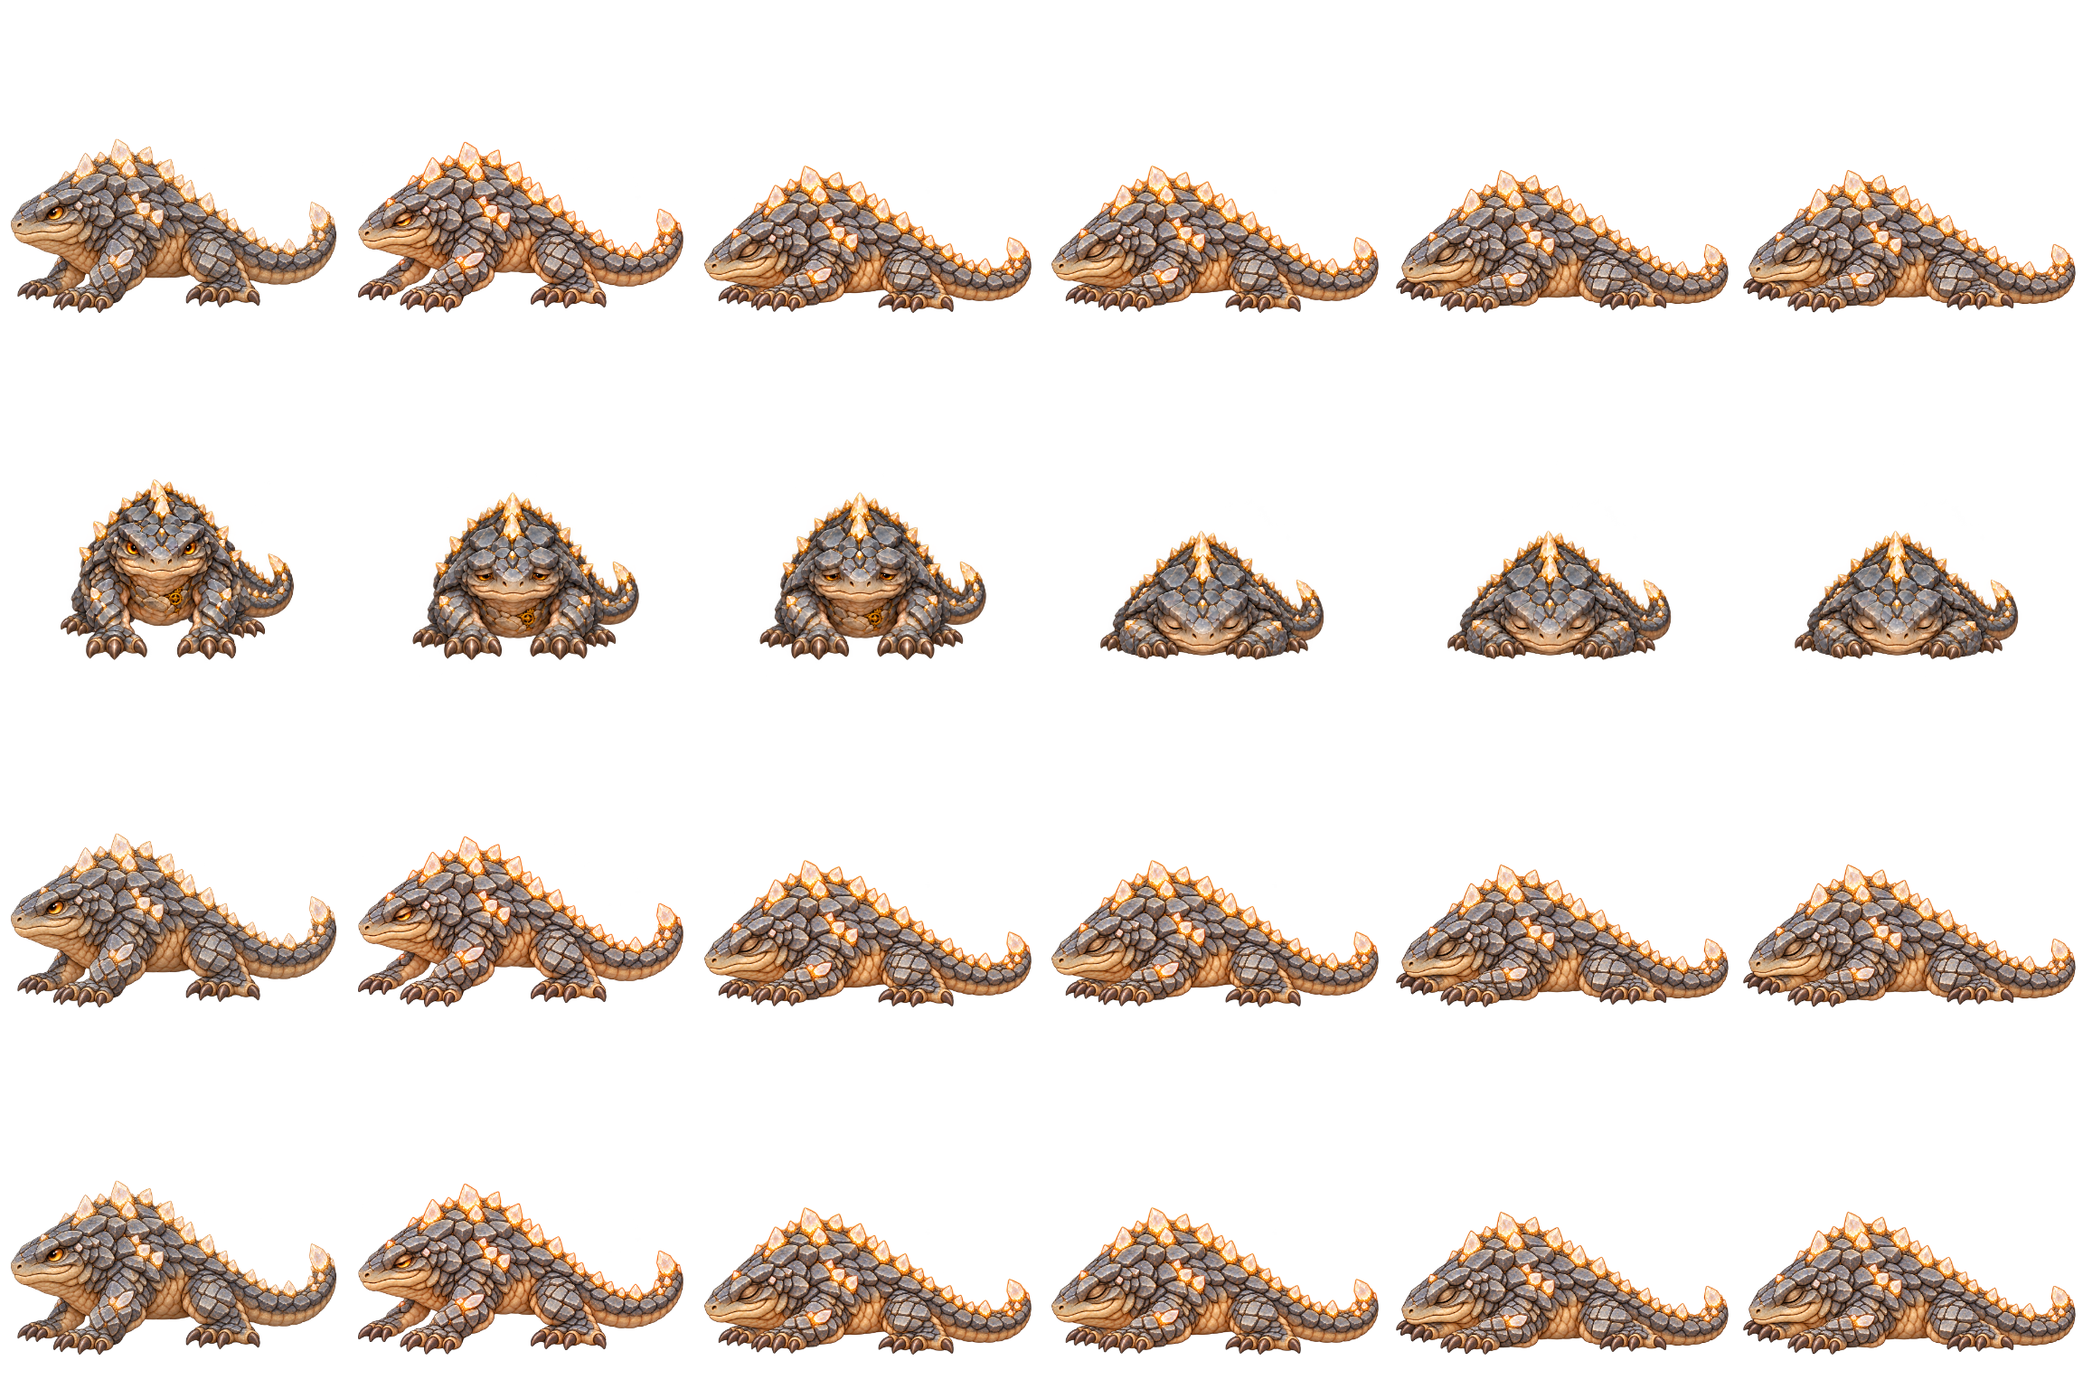
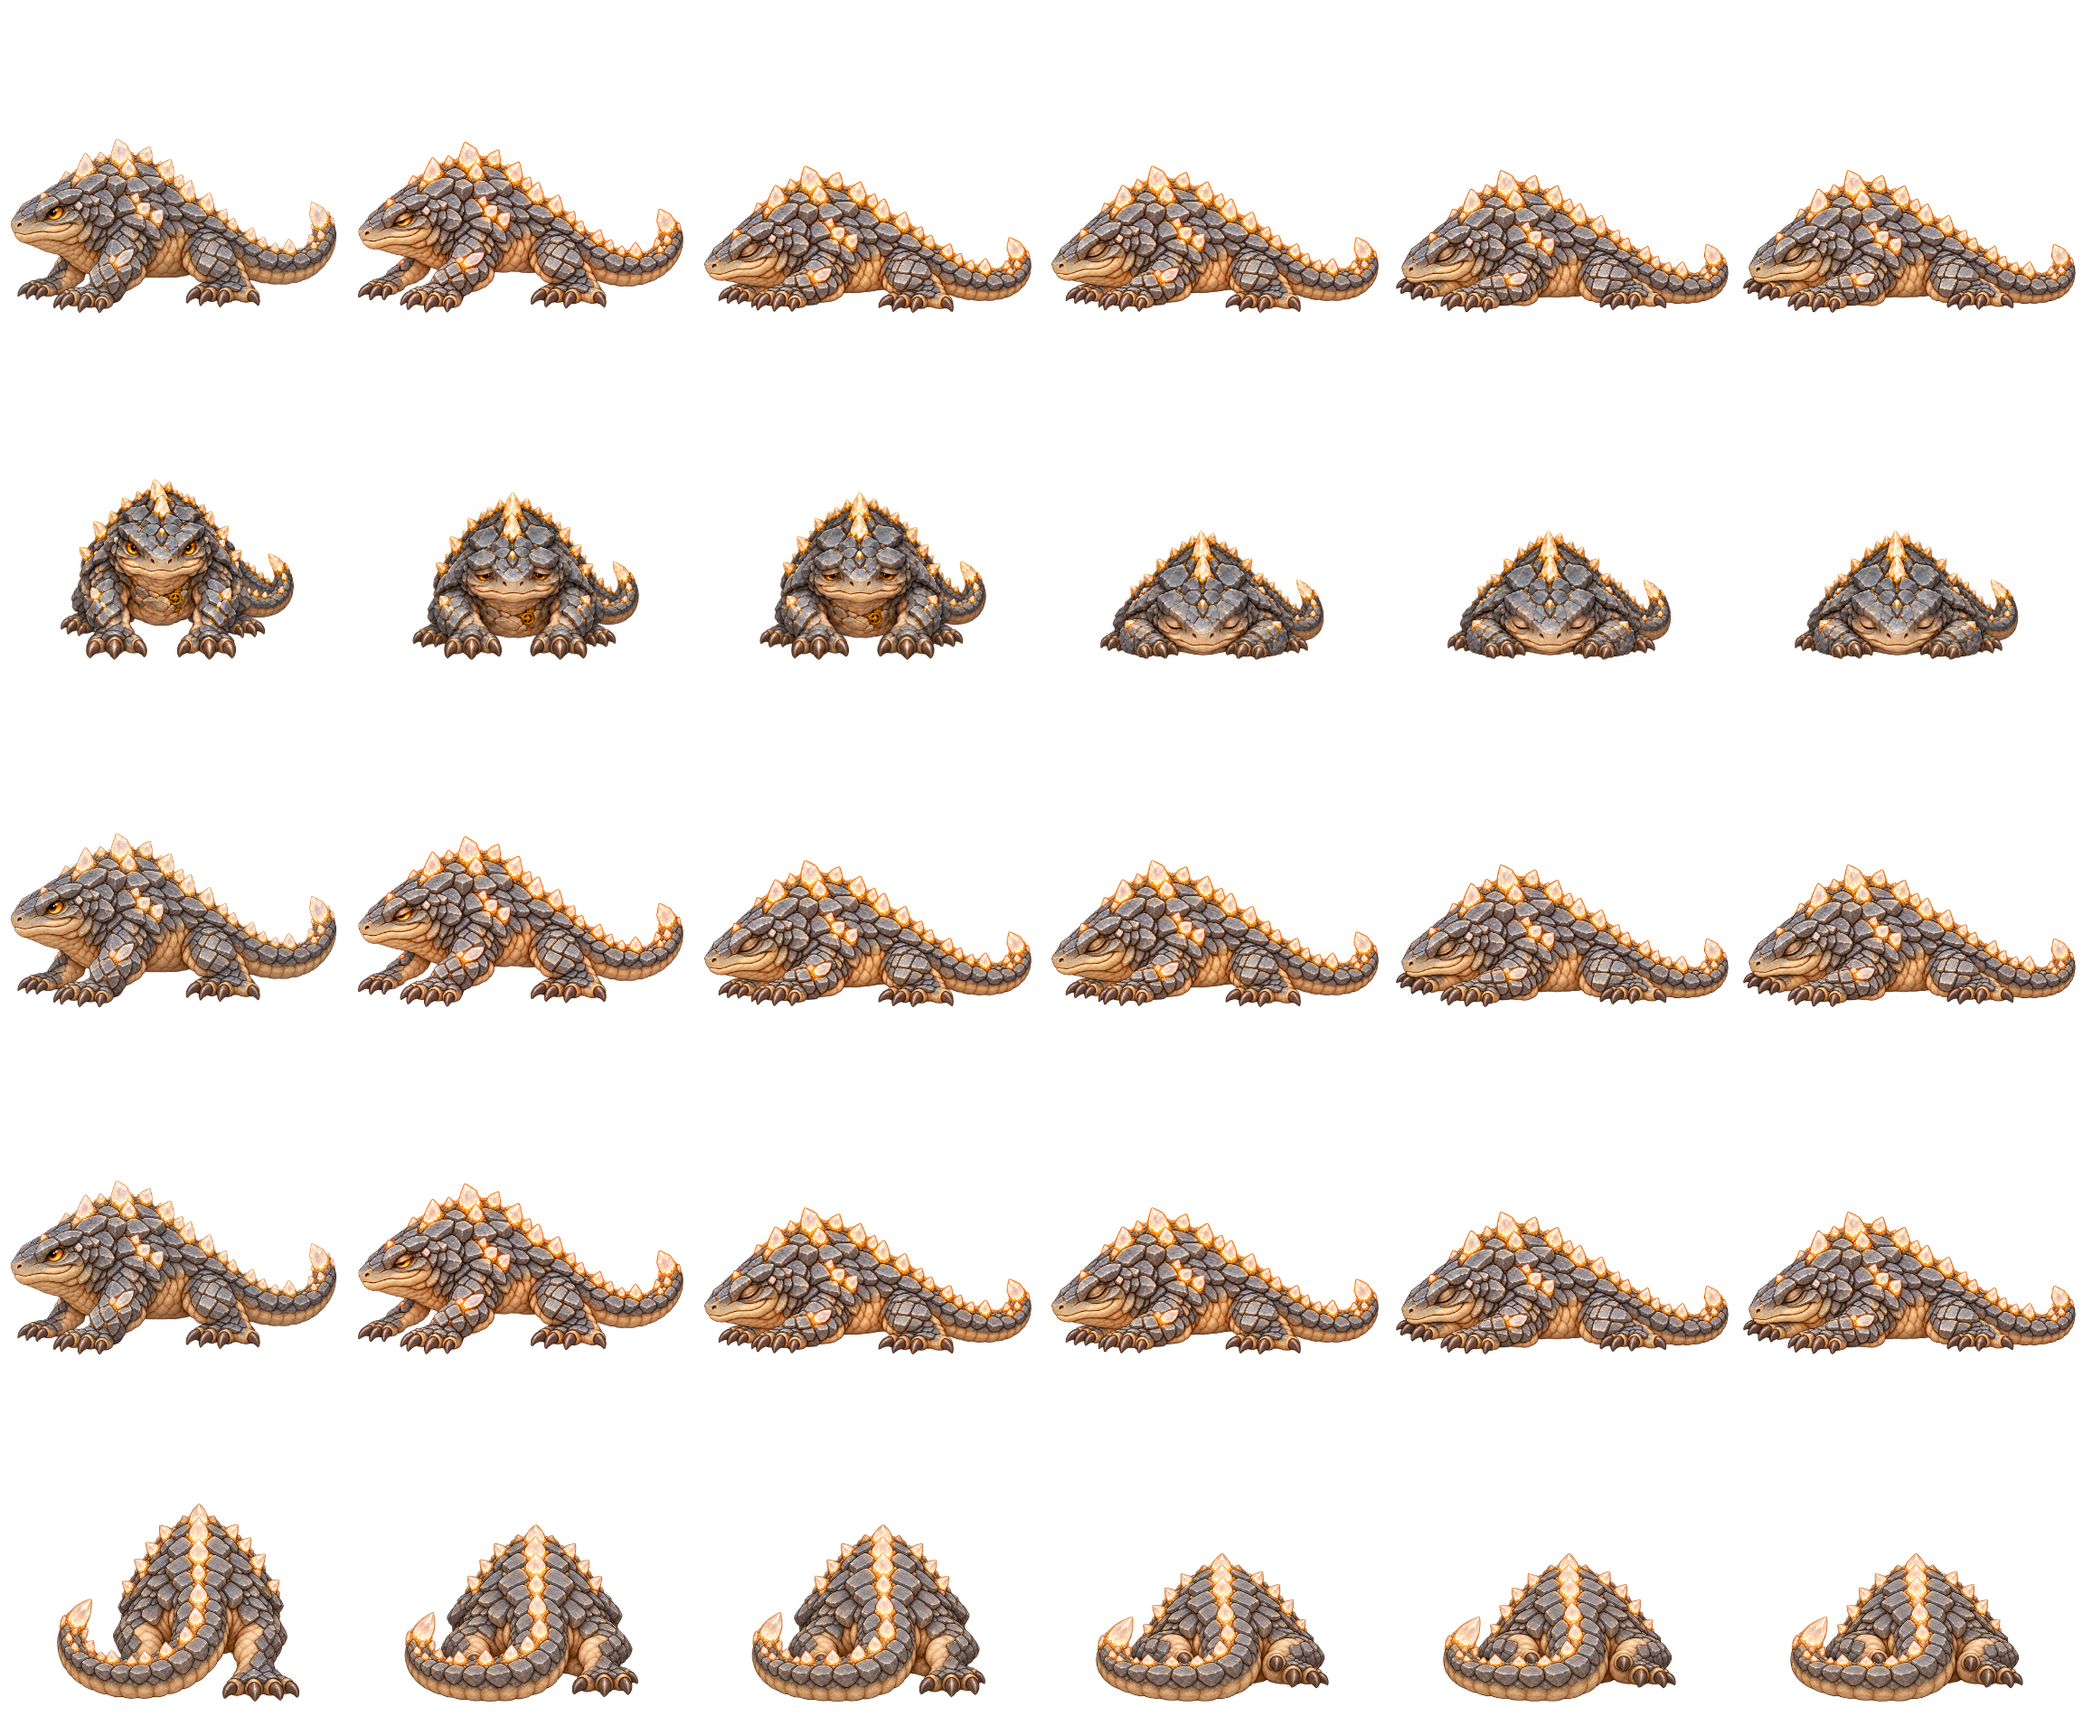
art: add rear Craglet action poses and runtime direction row

diff --git a/art-source/monsters/mob_0005/walk-review.html b/art-source/monsters/mob_0005/walk-review.html
@@ -17,6 +17,8 @@ button,input{margin:12px;padding:8px}p{max-width:900px}
 const image=new Image();image.src='./walk-left.png';await image.decode();
 const frontWalk=new Image();frontWalk.src='./walk-front.png';await frontWalk.decode();
 const backWalk=new Image();backWalk.src='./walk-back-v3.png';await backWalk.decode();
+const backActions=new Image();backActions.src='./actions-back.png';await backActions.decode();
+for(const name of ['attack-back','hit-back','death-back'])document.querySelector('#clip').add(new Option(name,name));
 const frontActions=new Image();frontActions.src='./actions-front-v2.png';await frontActions.decode();
 const frontActionBottom=[471,468,477,430,424,420];
 const walkImages=await Promise.all([1,2,3,4,5,6].map(async n=>{const img=new Image();img.src=`./walk-0${n}${n>=3&&n<=5?'-color':''}.png`;await img.decode();return img;}));
@@ -36,10 +38,20 @@ sequences['walk-back']=[0,1,2,3,4,5];
 sequences['attack-front']=[0,1,1,2,2,0];
 sequences['hit-front']=[0,3,3,0,0,0];
 sequences['death-front']=[0,4,4,5,5,5];
+sequences['attack-back']=[0,1,1,2,2,0];
+sequences['hit-back']=[0,3,3,0,0,0];
+sequences['death-back']=[0,4,4,5,5,5];
 const motion=document.querySelector('#motion'),g=motion.getContext('2d');
 const contact=document.querySelector('#contact'),cg=contact.getContext('2d');
 let paused=false,frame=0,last=0,light=true,clip='walk';
 function draw(ctx,i,cx,baseline,scale){
+ if(clip.endsWith('-back')&&clip!=='walk-back'){
+  const cuts=i<3?[0,528,1013,1536]:[0,519,1022,1536];
+  const col=i%3,x=cuts[col],w=cuts[col+1]-x,s=scale*.7;
+  const bottom=[487,487,490,449,450,474][i];
+  ctx.drawImage(backActions,x,Math.floor(i/3)*512,w,512,cx-256*s+(x-col*512)*s,baseline-bottom*s,w*s,512*s);
+  return;
+ }
  if(clip.endsWith('-front')&&clip!=='walk-front'){
   const s=scale*.7,size=512*s;
   ctx.drawImage(frontActions,(i%3)*512,Math.floor(i/3)*512,512,512,cx-size/2,baseline-frontActionBottom[i]*s,size,size);
@@ -109,8 +121,8 @@ function tick(now){
 function exportDraft(){
  const previous=clip,images={},sizes={};
  const json={id:'craglet_2d',kind:'sheet',facingMode:'directional',
-  frame:{w:384,h:384},pivot:{x:192,y:346},pixelsPerCell:300,rows:['W','S','SW','NW'],
-  mirror:{E:'W',SE:'W',NE:'W',N:'W'},
+  frame:{w:384,h:384},pivot:{x:192,y:346},pixelsPerCell:300,rows:['W','S','SW','NW','N'],
+  mirror:{E:'W',SE:'W',NE:'W'},
   animations:{
    idle:{file:'idle.png',frames:16,fps:8,loop:true},
    walk:{file:'walk.png',frames:6,fps:8,loop:true,refMsPerCell:260},
@@ -134,6 +146,10 @@ function exportDraft(){
     clip=name;draw(ctx,sequences[name][f],192,346,.75);
     ctx.restore();
    }
+   ctx.save();ctx.translate(f*384,4*384);
+   clip=name==='idle'?'attack-back':`${name}-back`;
+   draw(ctx,name==='idle'?0:sequences[clip][f],192,346,.75);
+   ctx.restore();
   }
   images[name]=canvas.toDataURL('image/png');sizes[name]={width:canvas.width,height:canvas.height};
  }

diff --git a/art-source/monsters/mob_0005/game-review.html b/art-source/monsters/mob_0005/game-review.html
@@ -5,7 +5,7 @@
 <h1>Craglet — game renderer draft</h1>
 <p>Uses the game's SpriteActor and Animator with exported PNG sheets. Not an active monster binding. Color consistency, gait registration, belly gear and directional artwork remain unfinished.</p>
 <label>Clip <select id="clip"><option>idle</option><option>walk</option><option>attack</option><option>hit</option><option>death</option></select></label>
-<label>Facing <select id="facing"><option value="-1">Left</option><option value="1">Right (mirrored)</option><option value="2">Front</option></select></label>
+<label>Facing <select id="facing"><option value="-1">Left</option><option value="1">Right (mirrored)</option><option value="2">Front</option><option value="0">Back</option></select></label>
 <button id="replay">Replay</button><button id="pause">Pause</button>
 <p id="status">Loading…</p><div id="stage"></div>
 <script type="module">

diff --git a/art-source/monsters/mob_0005/runtime-draft/README.md b/art-source/monsters/mob_0005/runtime-draft/README.md
@@ -1,11 +1,11 @@
 # Craglet runtime-format draft
 
-Five PNG sheets use 384 x 384 cells, pivot (192,346), and 300 pixels per cell. Authored views: left and front. Rows W/S/SW/NW include duplicated left art for western diagonals; east and north still use side aliases. This does not establish rear or diagonal artwork coverage.
+Five PNG sheets use 384 x 384 cells, pivot (192,346), and 300 pixels per cell. Authored draft views: left, front and rear. Rows W/S/SW/NW/N include duplicated left art for western diagonals; eastward directions mirror the side. This does not establish accurate diagonal or right-side artwork coverage.
 
-Attack hit is frame 3 (zero-based), and death holds the final frame. Left idle has an authored blink; front idle repeats a neutral pose and needs animation. There are 160 exported cells because duplicated direction rows are included, not 160 distinct authored poses.
+Attack hit is frame 3 (zero-based), and death holds the final frame. Left idle has an authored blink; front and rear idle repeat neutral poses and needs animation. There are 200 exported cells because duplicated direction rows are included, not 200 distinct authored poses.
 
 Regenerate with node scripts/export-craglet-draft.mjs while Vite runs on localhost:5173. Set PLAYWRIGHT_MODULE and CHROMIUM_PATH for the local browser installation. The exporter validates every row and checks nonempty alpha and clipping, not visual quality.
 
 The real SpriteActor/Animator review at ../game-review.html now offers Front. Front attack emitted hit at 375ms, front death held at 1000ms, and shownDir was S. Browser review found no page errors.
 
-Not bound to a live monster. Registration, foot sliding, plate continuity, side belly gear, missing rear actions, static front idle and abrupt action transitions remain open.
+Not bound to a live monster. Registration, foot sliding, plate continuity, side belly gear, rear action continuity, static front/rear idle and abrupt action transitions remain open.
